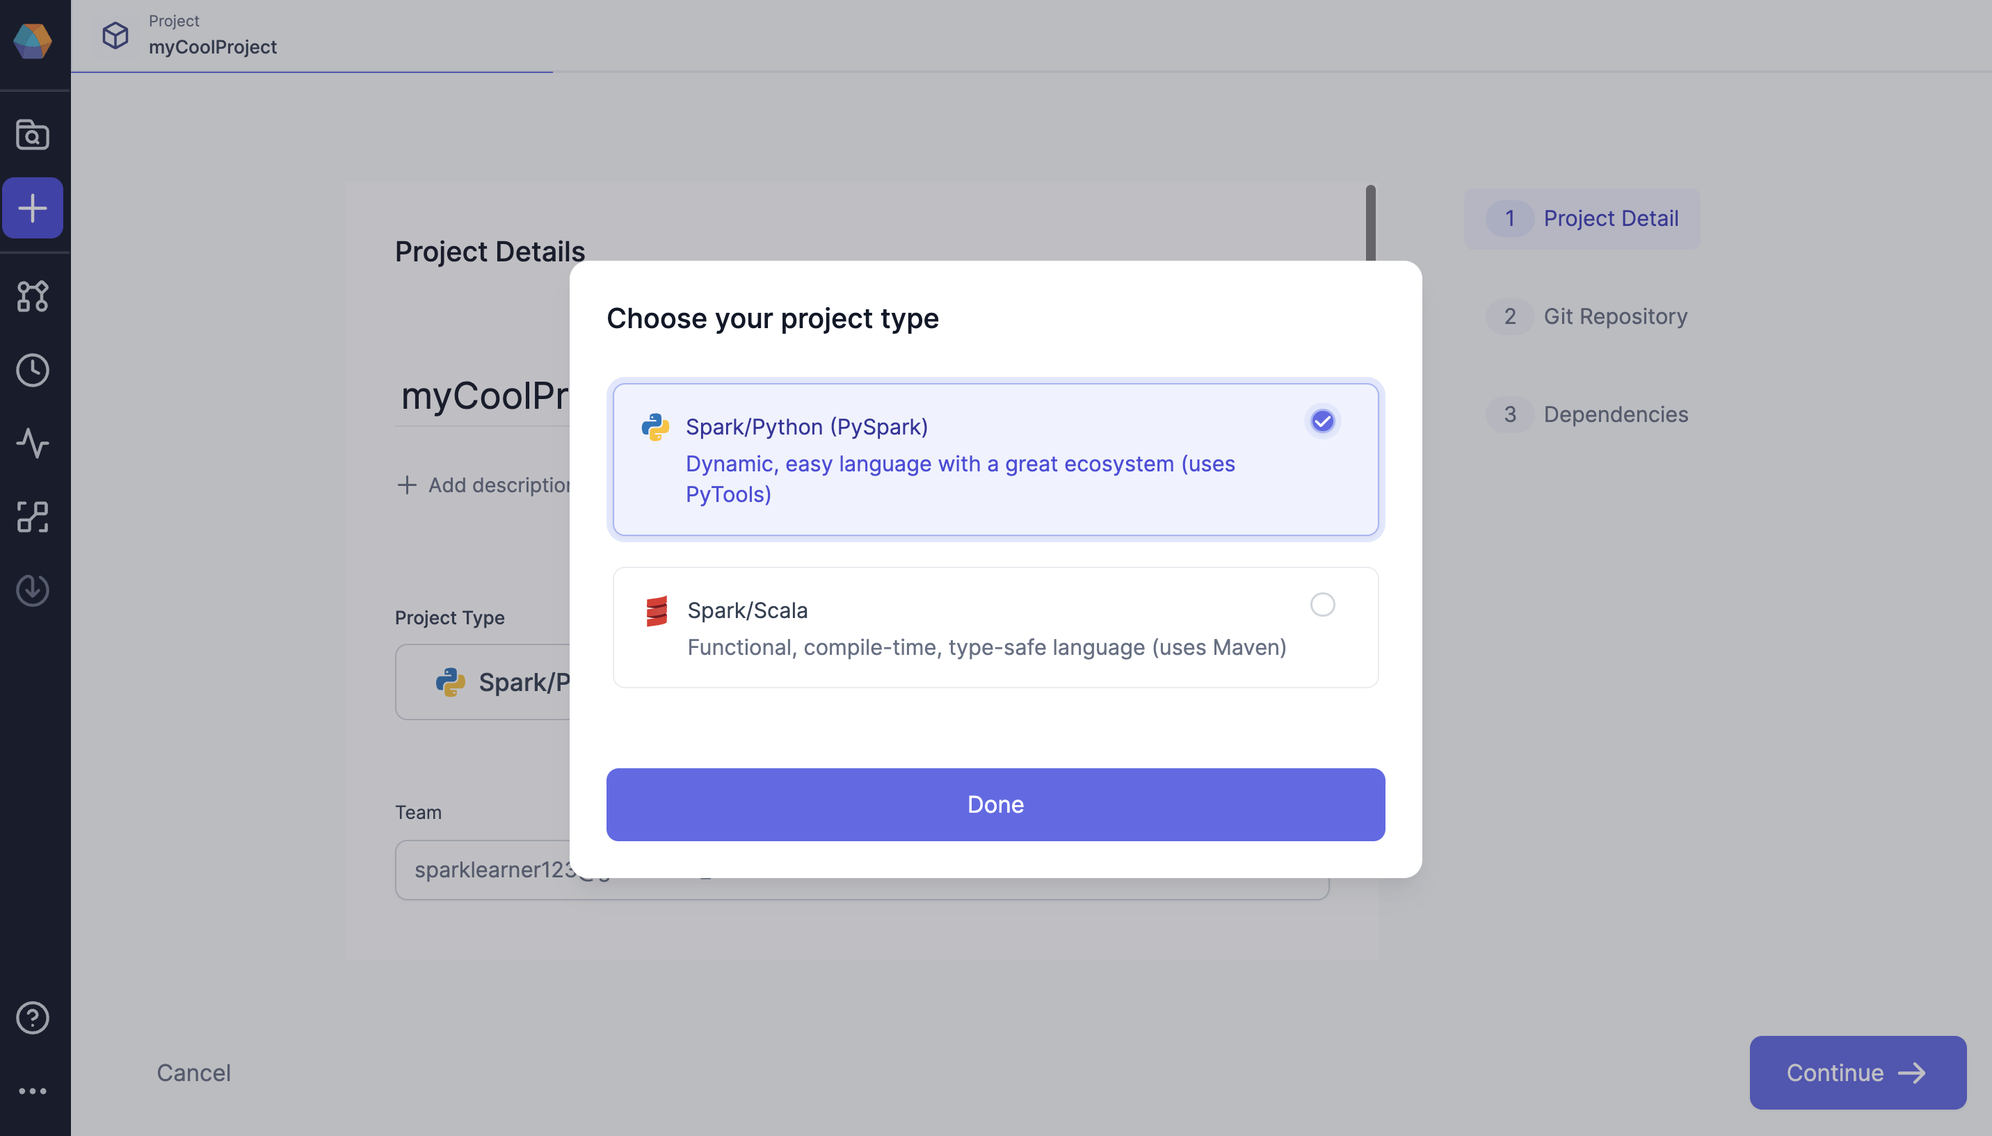
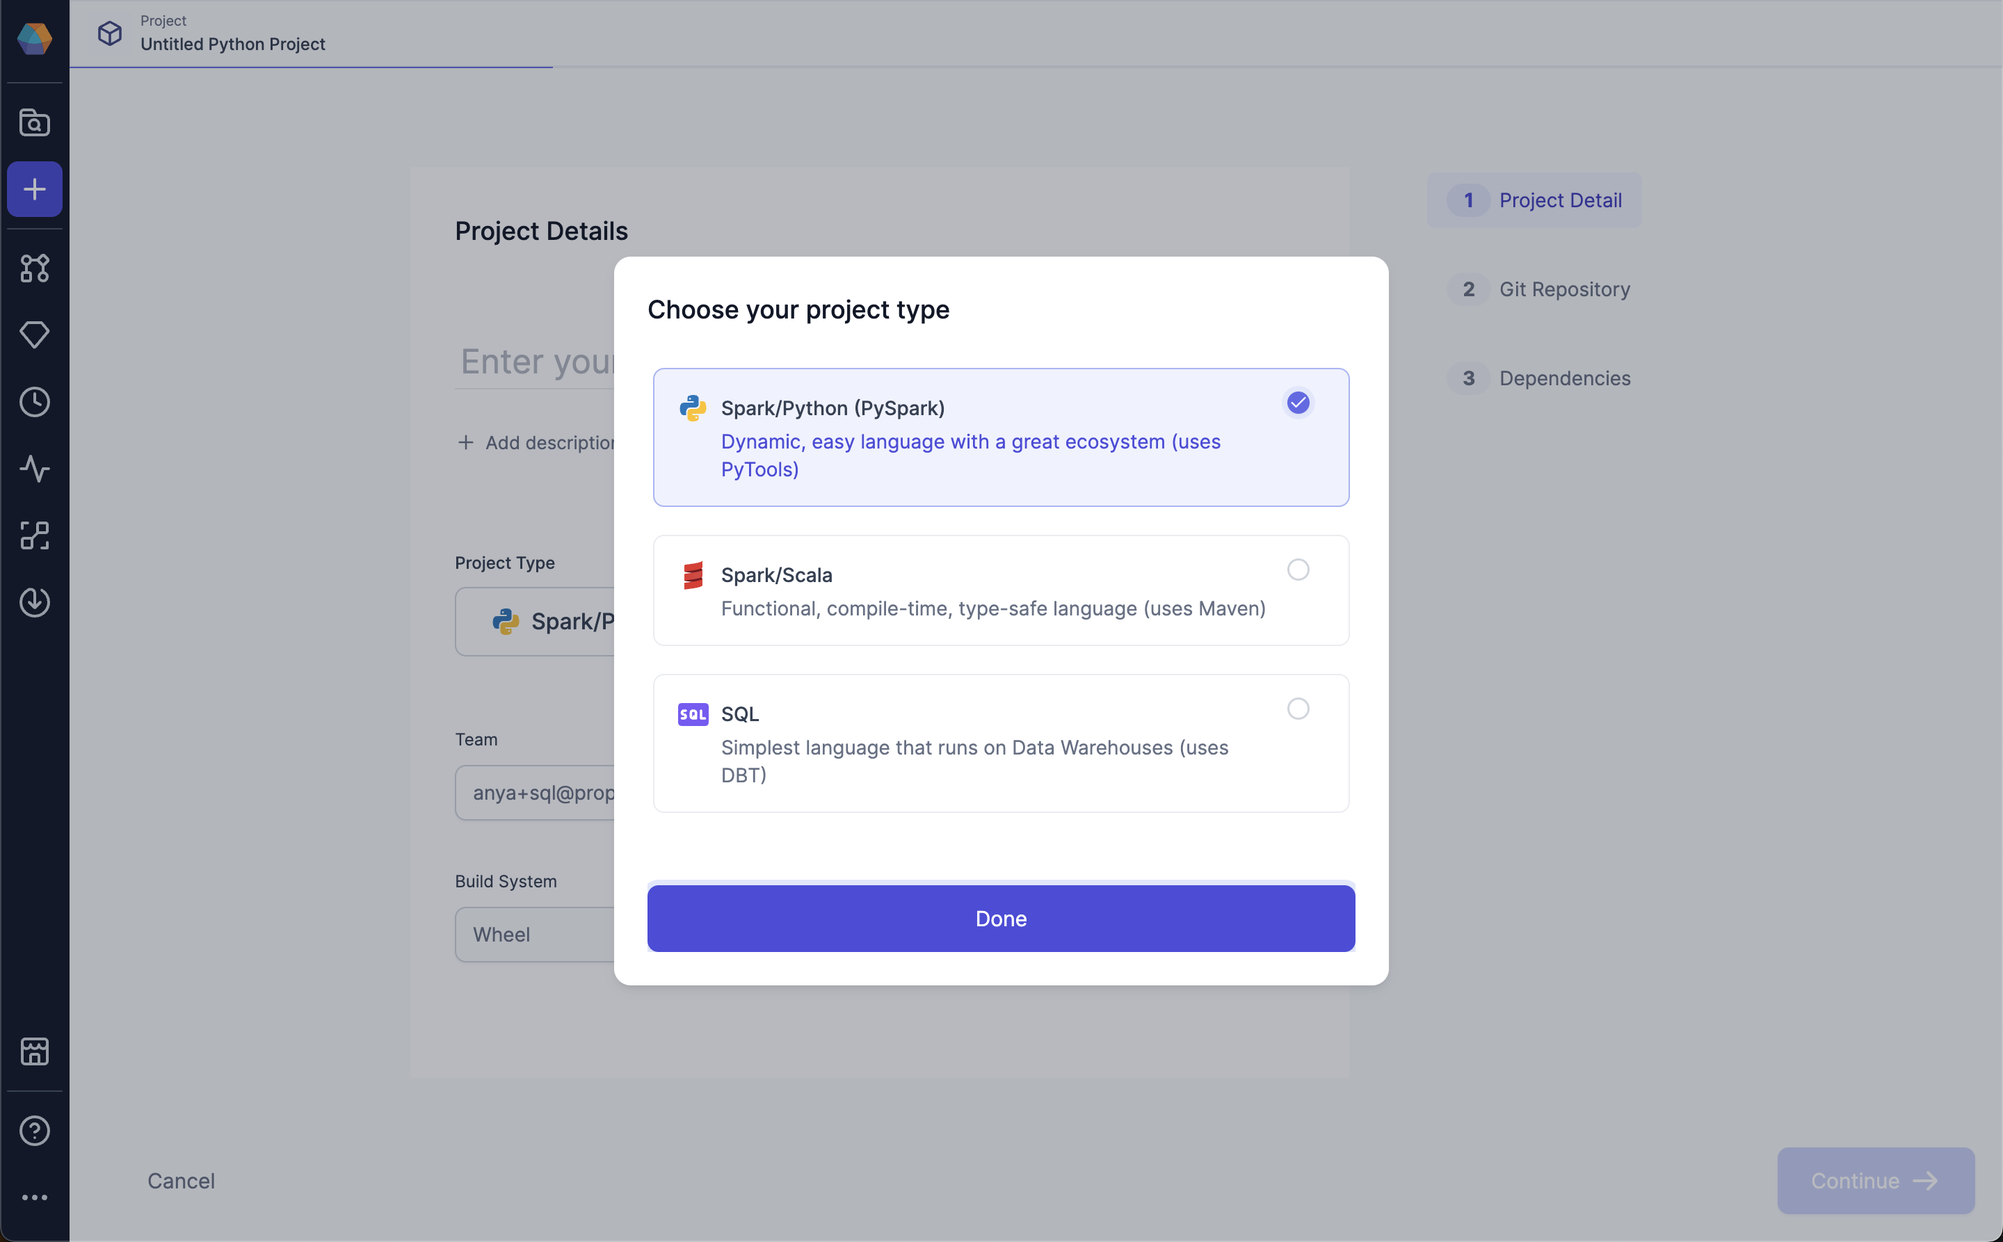
moved metadata items to the metadata page

diff --git a/docs/concepts/project/project.md b/docs/concepts/project/project.md
@@ -1,16 +1,11 @@
 ---
-title: Projects and Git
+title: Projects
 id: project
 description: Keeping your Pipelines, Datasets and Jobs under (source) control
 sidebar_position: 1
 tags:
   - concepts
   - project
-  - git
-  - commit
-  - pull
-  - merge
-  - release
 ---
 
 The Project is the primary unit of development and deployment to production in Prophecy.
@@ -21,63 +16,26 @@ A **project** contains
 - **Datasets** point to the data that is read and written to by the _Data Pipelines_ or _Data Models_.
 - **Jobs** run _Data Pipelines_ and _Data Models_ individually or together based on a schedule.
 
-## Project is Code on Git
+## Projects are Code on Git
 
 A **project** is **code** on **Git**. This means that within a project, the business logic of all the assets including _Pipelines_/_Models_, _Datasets_, and _Jobs_ is stored as code on Git. This might be a repository on Github or a folder in a repository.
 
 ![Project is code](../img/project_is_code.png)
 
-## Project Metadata
+Every component of the Project is represented both visually and in code on Git. Prophecy supports Projects in one of three languages: Spark Projects are saved as code in Scala or Python and SQL Projects are saved as code in SQL. Open any Pipeline (left) or Model (right) in your Project. Simply toggle from visual to code to see the underlying code for that Pipeline or Model, as well as the rest of the Project components.
 
-The `Project Metadata` page provides several views about the various aspects of your project. You can get to this view by going to the [Metadata](https://app.prophecy.io/metadata/entity/user) page and clicking the name of your project.
+![Visual To Code](img/code-to-visual.png)
 
-![Project Metadata](../img/project_metadata.png)
+Now that Projects are stored as code on Git, users and teams get a collaboration boost. Users can work on the same project simultaneously because each user has their own branch. Projects are reviewed and released with a version, so every team member can confidently rely on the business logic. Each Project becomes a re-usable package for other teams to use with their own data and configurations. All of these best practices are in place for every Prophecy user from day one.
 
-|     | Name                | Description                                                                                                                                            |
-| :-: | ------------------- | ------------------------------------------------------------------------------------------------------------------------------------------------------ |
-|  1  | Metadata tabs       | Switch between the various metadata views available for this project                                                                                   |
-|  2  | Rename project      | Change the name of the project. This only affects the name in the UI, no code directories will be renamed.                                             |
-|  3  | Project description | Edit the project description                                                                                                                           |
-|  4  | Project language    | Output language for this project                                                                                                                       |
-|  5  | Project Git status  | This is a list of branches that you or other users have used while developing this project, as well as the number of uncommitted files in that branch. |
+Click on a tile below to learn about the different Project components, or checkout the [Metadata](/docs/concepts/project/project.md#project-metadata) section below for guidance on finding what you need in an existing Project. Ready to develop your own Project? Click [here](/docs/concepts/project/project.md#1-create-new-project)!
 
-If you hover over any of the branches you'll have the option to commit the changes in that branch or delete the branch altogether.
+```mdx-code-block
+import DocCardList from '@theme/DocCardList';
+import {useCurrentSidebarCategory} from '@docusaurus/theme-common';
 
-![Branch hover](../img/project_branches.png)
-
-## Project Relations
-
-The `Relations` tab on the [Project Metadata](#project-metadata) page shows a list of all the component pieces that belong to this Project.
-
-![Project Relations](../img/project_relations.png)
-
-|     | Name         | Description                                                                                   |
-| :-: | ------------ | --------------------------------------------------------------------------------------------- |
-|  1  | Pipelines    | List of [Pipelines](/docs/concepts/project/pipelines.md) in this project                      |
-|  2  | Add Pipeline | Click this to add a new Pipeline                                                              |
-|  3  | Jobs         | List of Jobs in this project                                                                  |
-|  4  | Add Job      | Click this to add a new Job                                                                   |
-|  5  | Datasets     | List of Datasets in this project                                                              |
-|  6  | Subgraphs    | List of published [Subgraphs](/docs/low-code-spark/gems/subgraph/subgraph.md) in this project |
-
-## Project Commits
-
-The `Commits` tab on the [Project Metadata](#project-metadata) page shows the current Git state of the project and allows you to step through the process of committing, merging, and releasing your chanages.
-
-![Project Commits](../img/project_commits.png)
-
-|     | Name              | Description                                                                                                                                                            |
-| :-: | ----------------- | ---------------------------------------------------------------------------------------------------------------------------------------------------------------------- |
-|  1  | Current Branch    | The branch you're currently working on                                                                                                                                 |
-|  2  | Base Branch       | The base (or upstream) branch you're comparing the Current Branch to                                                                                                   |
-|  3  | Commit Button     | Click this to commit any uncommitted files in this branch                                                                                                              |
-|  4  | Unmerged commits  | The number of commits that are in your Current Branch but are not yet in the Base Branch                                                                               |
-|  5  | Uncommitted files | The number of files that are uncommitted in this branch. Use the commit button to save these changes into the Current Branch                                           |
-|  6  | Remote commits    | If you or another user has merged their changes into the Base Branch you can see the number here. Use the pull button to bring these changes into your Current Branch. |
-
-For a walkthrough of the different phases of comitting a project, see [this section](#3-integrate-changes).
-
-## Development and Deployment
+<DocCardList items={useCurrentSidebarCategory().items}/>
+```
 
 Prophecy provides a standard and recommended mechanism for using Git based development
 (though other mechanisms are possible - including fork based development in our Enterprise product). A standard development pattern looks like this:
@@ -92,7 +50,7 @@ Starting from the [Create Entity](https://app.prophecy.io/metadata/create) page,
 
 ![Create Entity page](./img/project-create-import.png)
 
-In the `Create Project` pane you can set the name, output language (Scala or Python) and which team the project belongs to. Visually designed pipelines will generate code in the selected Project output language. Advanced users can design expressions in SQL, Python, or Scala, and the project will _generate code_ in the Project output language.
+In the `Create Project` pane you can set the name, output language (Python, Scala or SQL) and which team the project belongs to. Visually designed pipelines will generate code in the selected Project output language. Advanced users can design expressions in SQL, Python, or Scala, and the project will _generate code_ in the Project output language.
 
 ![Project language](../img/project_language.png)
 
@@ -163,3 +121,23 @@ Click the **_Merge_** button to merge the changes and push them back to your Git
 |  1  | Commit selection | Pick which commit will be tagged for release                                                                                                                      |
 |  2  | Release notes    | Free-form notes for the release                                                                                                                                   |
 |  3  | Version          | Enter whatever you'd like here. Best practices exist such as [Semantic Versioning](https://semver.org/), but you're free to use whatever matches your environment |
+
+## Project Browser
+
+When Opening a project, User can click on the Open project button. This takes you to the Bird's eye view of the entire Project.
+Here you can see all the entities in this project and how they are interlinked in various Pipelines/Jobs etc.
+
+![Project-browser1](img/project-browser1.gif)
+
+When you are already on a Pipeline editor page, you can open the Project browser by clicking on the `>>` icon on Top left corner.
+
+![Project-browser2](img/Project-browser2.gif)
+
+### Environment tab
+
+When click on the Environment tab in the Project browser, User can also browse the `Catalog tables` from the Fabric they are connected to.
+Moreover, He can just click on the `+` button to add this table as a Source Gem in any Pipeline.
+
+Please see below video for example.
+
+![env-tab](img/env-tab2.gif)

diff --git a/docs/concepts/concepts.md b/docs/concepts/concepts.md
@@ -7,7 +7,7 @@ tags: []
 
 Advance your productivity by becoming familiar with these key Prophecy concepts.
 
-## Projects and Git
+## Projects
 
 The Project is the primary unit of development and deployment to production in Prophecy.
 
@@ -31,9 +31,9 @@ Metadata is how you access and configure all entities in Prophecy. You can go to
 
 ## Pipelines and Models
 
-Pipelines and models within Prophecy are used to represent the flow of data and transformations preformed in the middle. Each one reads data from certain locations (from Source gems), processes it (through Transform gems), and writes it back to another location (Target Gem). A Pipeline (left) and a Model (right) are shown below.
+`Pipelines` and `Models` within Prophecy are used to represent the flow of data. They are similar to a map you might use on a road trip: You have a **_Start_** and **_Finish_** (Datasets) and the **_stops_** to make along the way (Gems).
 
-![Pipeline and Model](img/pipeline-and-model.png)
+![Pipeline](img/pipeline.png)
 
 ### Pipelines (for Spark)
 
@@ -51,32 +51,12 @@ You will want to create models if you’d like to transform data directly on you
 
 Learn more [here](/docs/low-code-sql/low-code-sql.md) about Prophecy’s low-code SQL environment and get started with low-code SQL on Databricks with [this guide](/docs/getting-started/getting-started-with-low-code-sql.md).
 
-## Teams And Users
-
-Teams are the primary mechanism of ownership. Each Team represents a group of users who work together.
-
-- **Teams own Projects** where Pipelines, Datasets and Jobs live
-- **Teams own Fabrics** that provide the execution and storage resources for execution including Spark clusters
-
-Users get access by being added to a teams
-
-- **Personal Teams** For every user, a default team in created that only contains one user. If only one user is to be given access to a project, it can be done via this team
-- **Personal Projects** Users can put personal projects in their _personal team_ and not share it with others
-
-![TeamsUsers](img/team_page.png)
-
 ## Fabrics
 
-Fabric is a logical execution environment. Teams organize their data engineering into multiple environments such as _development_, _staging_, and _production_.
+A Fabric is a logical execution environment. Teams organize their data engineering into multiple environments such as _development_, _staging_, and _production_.
 As an example, if you have a Databricks Workspace, that would map to one Fabric in Prophecy.
 
 ![Fabrics](img/fabrics_details.png)
-
-## Pipelines
-
-A `Pipeline` within Prophecy is used to represent the flow of data. They are similar to a map you might use on a road trip: You have a **_Start_** and **_Finish_** (Datasets) and the **_stops_** to make along the way (Gems).
-
-![Pipeline](img/pipeline.png)
 
 ## Datasets
 
@@ -124,3 +104,17 @@ To support Jobs, Prophecy provides you with an easy to use low-code interface to
 Alternatively, since Prophecy provides you native Spark code on Git, you can easily integrate with any other scheduler.
 
 ![Job](img/Job.png)
+
+## Teams And Users
+
+Teams are the primary mechanism of ownership. Each Team represents a group of users who work together.
+
+- **Teams own Projects** where Pipelines, Datasets and Jobs live
+- **Teams own Fabrics** that provide the execution and storage resources for execution including Spark clusters
+
+Users get access by being added to a team
+
+- **Personal Teams** For every user, a default team in created that only contains one user. If only one user is to be given access to a project, it can be done via this team
+- **Personal Projects** Users can put personal projects in their _personal team_ and not share it with others
+
+![TeamsUsers](img/team_page.png)

diff --git a/docs/metadata/project-metadata.md b/docs/metadata/project-metadata.md
@@ -1,0 +1,39 @@
+---
+title: Project Metadata
+id: Project Metadata
+description: Find items you need in your projects
+sidebar_position: 1
+tags:
+  - metadata
+  - Project
+---
+
+Prophecy's [Metadata](https://app.prophecy.io/metadata/entity/user) page provides a searchable directory of Projects and Project components including Pipelines, Models, and Jobs. We can also see Teams and importantly [Fabrics](/docs/concepts/fabrics/fabrics.md).
+
+![Project Metadata](./img/project_metadata_1.png)
+
+Typically a Team Administrator will setup Fabrics and each user will enter their own token to use the Fabric. Once your Administrator has setup [Spark Fabrics](/docs/low-code-spark/fabrics/fabrics.md), SQL Fabrics, or [Airflow Fabrics](/docs/low-code-jobs/airflow/setup/setup.md), then each Project can access data sources via the relevant Fabric. Notice the language Type is shown for each Fabric. SQL Projects can use SQL and Airflow fabrics. Python (and Scala) Projects can use Spark and Airflow Fabrics. Clicking on the Projects tab reveals all the projects my user has permission to view. Notice the **Language** is shown for each Project; this is the language for the output code on that Project.
+
+![Project Metadata SQL](./img/project_metadata_2.png)
+
+Projects are owned by Teams. A user would be a member of their own personal team as well as any Teams to which they have been added. The image above shows Projects owned by the user's personal team because the user has not been added to any other teams. There are Python and SQL projects shown here, and Prophecy also supports Scala projects. Clicking on a Project reveals Metadata specific to that Project.
+
+### Project Content
+
+The **About** tab displays the Project's language and description. Switch between the various Metadata views available for these Projects. Let's take a look at the **Content** tab.
+
+![Project Metadata Python](./img/project_metadata_4.png)
+
+Here we can search for the entities within this Project. Where SQL Projects capture a series of Data Transformation steps using **Models**, Python and Scala Projects use **Pipelines**. All Projects contain Jobs for scheduling the Models or Pipelines. SQL Projects have a few more items, including **Seeds** for defining starter datasets.
+
+### Project Dependencies
+
+Each Project can re-use logic from other projects and avoid code duplication. The Dependencies tab shows the Packages that the current Project is re-using. Read more about Packages and Dependencies [here](/docs/package-hub/package-builder/package-builder.md), including how to [Use a package](/docs/package-hub/package-hub.md#use-a-package) or even [build your own](/docs/package-hub/package-hub.md#build-a-package)!
+
+### Project Commits
+
+The `Commits` tab on the [Project Metadata](#project-metadata) page shows the current Git state of the project and allows you to step through the process of committing, merging, and releasing your chanages. For a walkthrough of the different phases of comitting a project, see [this page](/docs/concepts/project/project.md#3-integrate-changes).
+
+### Project Releases and Deployments
+
+This tab displays the history of released projects and deployed jobs. Click [here](/docs/deployment/deployment.md#releases-and-deployment-history) to learn more.

diff --git a/docs/metadata/metadata-connections.md b/docs/metadata/metadata-connections.md
@@ -11,7 +11,7 @@ tags:
   - data
 ---
 
-At Prophecy we're always looking to make your development faster. For teams that manage hundreds or thousands of tables, listing data catalogs, tables, and schemas can take precious minutes. In order to make this easier, Prophecy introduced Metadata Connections in release 3.2. The major benefit to Metadata Connections: [straightaway](/docs/metadata/metadata-connections.md) you can list and view your data directly in the [Prophecy UI](/docs/concepts/project/project-browser.md#Environment-tab).
+At Prophecy we're always looking to make your development faster. For teams that manage hundreds or thousands of tables, listing data catalogs, tables, and schemas can take precious minutes. In order to make this easier, Prophecy introduced Metadata Connections in release 3.2. The major benefit to Metadata Connections: [straightaway](/docs/metadata/metadata-connections.md) you can list and view your data directly in the [Prophecy UI](/docs/concepts/project/project.md#Environment-tab).
 
 Let's get down to basics by [defining](/docs/metadata/metadata-connections.md/#definition-of-entities) the relevant entities in Prophecy, setup the relevant data resource, then we'll walk through how to [setup](/docs/metadata/metadata-connections.md/#setup) Metadata Connections in Prophecy.
 
@@ -79,7 +79,7 @@ Define a **(3)Connection Name**, and add an optional **(4)Description** for your
 
 Define the **(8)Refresh Frequency** for Prophecy to sync the metadata from the workspace catalogs and JDBC warehouses accessible to the access token. **(9)Enable** the Metadata Connection to proceed with the sync and **(10)Add** the Metadata Connection.
 
-Once a Connection is configured, the Connection details will be used to display data in the [Project Browser](/docs/concepts/project/project-browser.md#how-to-access-project-browser) `Environment` tab.
+Once a Connection is configured, the Connection details will be used to display data in the [Project Browser](/docs/concepts/project/project.md#project-browser) `Environment` tab.
 
 ![AddGem](./img/2-add-gem.png)
 

diff --git a/docs/concepts/project/pipelines.md b/docs/concepts/project/pipelines.md
@@ -1,7 +1,7 @@
 ---
 title: "Pipelines"
 id: pipeline
-description: The recipes of the Prophecy world
+description: Spark Pipelines represent the data journey and can define multiple targets.
 sidebar_position: 1
 tags:
   - concepts

diff --git a/docs/concepts/project/models.md b/docs/concepts/project/models.md
@@ -1,7 +1,7 @@
 ---
 title: Models
 id: Model
-description: SQL Models
+description: SQL models define a single target table or view.
 sidebar_position: 2
 tags:
   - concepts
